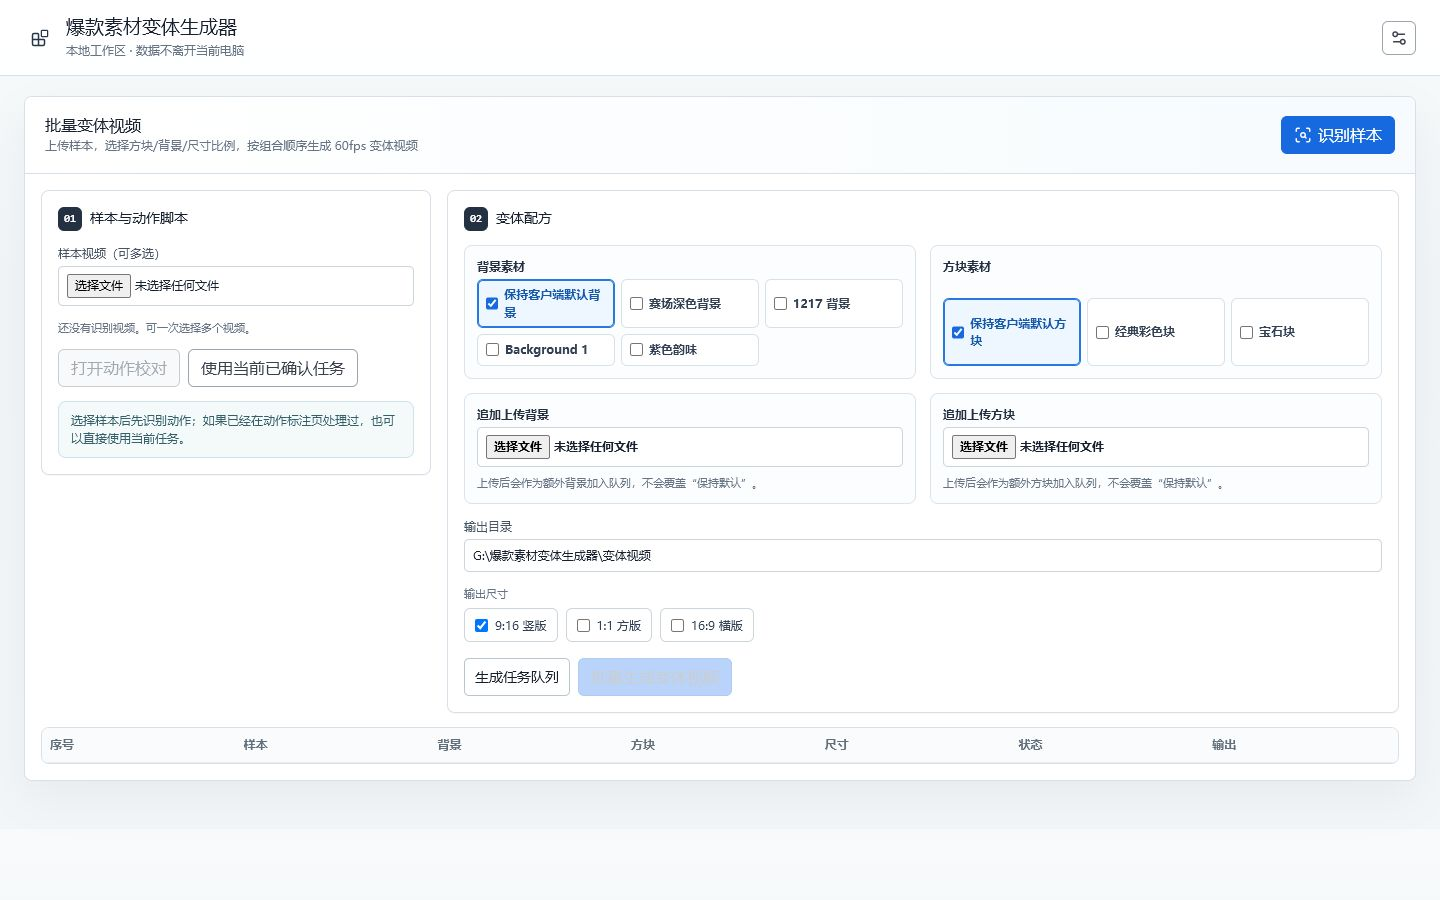
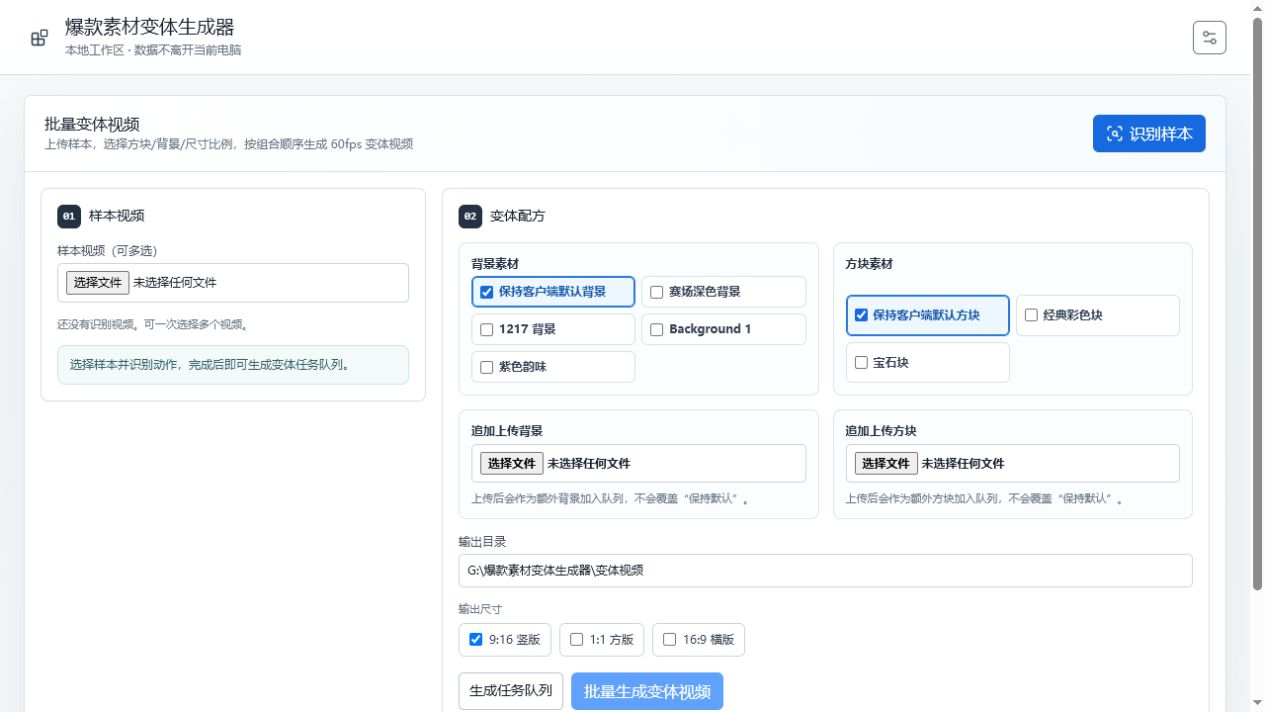
Clarify automatic generation workflow

diff --git a/docs/project-overview.html b/docs/project-overview.html
@@ -492,7 +492,7 @@
         <div class="hero-content">
           <div class="eyebrow">Local-first video automation</div>
           <h1 id="hero-title">爆款素材<br>变体生成器</h1>
-          <p class="hero-lead">从游戏录屏中识别方块、落点与消除动作，经人工复核和确定性规则校验后，更换背景、方块素材与画面比例，批量生成可复现的变体视频。</p>
+          <p class="hero-lead">从游戏录屏中自动识别方块、落点与消除动作，经确定性规则校验后，更换背景、方块素材与画面比例，直接批量生成可复现的变体视频。</p>
           <div class="hero-actions">
             <a href="../index.html"><i data-lucide="play"></i>进入生成器</a>
             <a href="#baseline"><i data-lucide="chart-no-axes-combined"></i>查看当前精度</a>
@@ -511,7 +511,7 @@
       <div class="shell">
         <div class="section-head reveal">
           <div><div class="section-label">Product workflow</div><h2>一条从样本到成片的确定性流水线</h2></div>
-          <p>识别并不是终点。项目把视频理解、动作复核、素材替换和 Unity 回放连成闭环，所有低置信结果都可以在生成前被看到、修正和验证。</p>
+          <p>面向使用者的正式链路不要求核对真值。算法自动理解视频、完成规则一致性校验并驱动 Unity 回放；真值标注属于独立的研发链路，只用于提高后续自动识别精度。</p>
         </div>
         <div class="workflow reveal">
           <article class="workflow-item">
@@ -527,10 +527,10 @@
             <p>拆解来源槽位、方块形状、棋盘落点、消除状态和稳定画面区间。</p>
           </article>
           <article class="workflow-item">
-            <div class="workflow-index">TRUTH / 03</div>
-            <div class="workflow-icon"><i data-lucide="list-checks"></i></div>
-            <h3>校对真值</h3>
-            <p>逐步核对视觉证据，规则模拟必须能够精确复现后续棋盘。</p>
+            <div class="workflow-index">VERIFY / 03</div>
+            <div class="workflow-icon"><i data-lucide="shield-check"></i></div>
+            <h3>自动校验</h3>
+            <p>用合法落点和棋盘状态复现自动排除不一致候选，不要求用户逐步确认。</p>
           </article>
           <article class="workflow-item">
             <div class="workflow-index">OUTPUT / 04</div>
@@ -541,7 +541,7 @@
         </div>
         <figure class="screen-figure reveal">
           <div class="screen-frame"><img src="assets/overview-home.png" alt="批量变体视频生成主页，包含多视频样本、背景和方块配方、输出尺寸与生成队列。"></div>
-          <figcaption class="screen-caption"><strong>当前主页：纯粹的变体生成工作流</strong><span>校准、真值与编辑器接口已收进右上角系统工具菜单</span></figcaption>
+          <figcaption class="screen-caption"><strong>当前主页：上传、识别、配方与生成</strong><span>真值标注和校准属于后台算法工具，已收进右上角系统工具菜单</span></figcaption>
         </figure>
       </div>
     </section>
@@ -631,7 +631,7 @@
           <article class="cause"><div class="cause-code">ROOT / METRIC</div><h3>检测与识别曾被混算</h3><p>漏检导致动作配对错位，形状、槽位、落点指标会一起被污染。新评测已开始拆分 action count 与 aligned 指标。</p></article>
         </div>
         <div class="architecture reveal" aria-label="系统架构流程">
-          <article class="arch-stage"><i data-lucide="monitor-up"></i><h3>浏览器工作台</h3><p>批量配方、视频标注、校准、真值进度和生成队列。</p></article>
+          <article class="arch-stage"><i data-lucide="monitor-up"></i><h3>变体生成工作台</h3><p>上传样本、自动识别、批量配方和生成队列；标注与校准作为后台工具独立存在。</p></article>
           <div class="arch-arrow"><i data-lucide="arrow-right"></i></div>
           <article class="arch-stage"><i data-lucide="scan-eye"></i><h3>本地视觉与规则层</h3><p><code>variant_bridge.py</code> 调度 <code>timeline_analyzer.py</code>，输出候选和可回放脚本。</p></article>
           <div class="arch-arrow"><i data-lucide="arrow-right"></i></div>
@@ -695,14 +695,14 @@
       <div class="shell workbench-shot">
         <div class="screen-frame reveal"><img src="assets/overview-annotation.png" alt="视频动作标注工作台的样本导入和识别入口。"></div>
         <div class="workbench-copy reveal">
-          <div class="section-label">Human in the loop</div>
-          <h2>识别不完美时，仍然可以可靠交付</h2>
-          <p>标注工作台不是算法失败后的补丁，而是产品安全边界。机器先完成高置信部分，操作者只处理真正有歧义的动作。</p>
+          <div class="section-label">Algorithm development loop</div>
+          <h2>真值核对用于调算法，不属于生成步骤</h2>
+          <p>研发人员从测试集中抽取样本，核对程序识别结果并保存真值，再用 A/B 评测判断优化是否有效。普通使用者上传视频时不需要进入这个界面。</p>
           <div class="check-list">
-            <div class="check-item"><i data-lucide="circle-check"></i><span>逐步查看放置前、拖拽中、放置后与消除后证据帧</span></div>
-            <div class="check-item"><i data-lucide="circle-check"></i><span>分别修正来源槽位、方块形状、棋盘落点和消除状态</span></div>
-            <div class="check-item"><i data-lucide="circle-check"></i><span>所有动作通过规则模拟后才保存为可回放真值</span></div>
-            <div class="check-item"><i data-lucide="circle-check"></i><span>下一阶段加入落子前三槽真值，直接评测托盘读取器</span></div>
+            <div class="check-item"><i data-lucide="circle-check"></i><span>建立可信测试集，量化来源槽位、形状、落点和消除错误</span></div>
+            <div class="check-item"><i data-lucide="circle-check"></i><span>定位算法为什么看错，而不是让每位用户替算法纠错</span></div>
+            <div class="check-item"><i data-lucide="circle-check"></i><span>每个实验与固定真值比较，防止局部优化造成整体回归</span></div>
+            <div class="check-item"><i data-lucide="circle-check"></i><span>最终目标是提高自动识别率，让视频能够直接生成变体</span></div>
           </div>
         </div>
       </div>
@@ -731,7 +731,7 @@
 
   <footer>
     <div class="shell footer-inner">
-      <div><strong>爆款素材变体生成器</strong><br><span>识别、校对、回放、变体生成，一个本地闭环。</span></div>
+      <div><strong>爆款素材变体生成器</strong><br><span>自动识别、规则校验、回放与变体生成，一个本地闭环。</span></div>
       <div class="footer-meta">STATUS SNAPSHOT · 2026-07-24<br><a href="README.md">查看文档索引</a></div>
     </div>
   </footer>

diff --git a/index.html b/index.html
@@ -216,14 +216,14 @@
         <div class="body">
           <div class="batch-layout">
             <div class="batch-card">
-              <h3 data-step="01">样本与动作脚本</h3>
+              <h3 data-step="01">样本视频</h3>
               <label>样本视频（可多选） <input id="batchSampleVideo" type="file" accept="video/*" multiple></label>
               <div class="batch-video-list" id="batchVideoList"><div class="hint">还没有识别视频。可一次选择多个视频。</div></div>
-              <div class="toolrow">
+              <div class="toolrow" hidden>
                 <button type="button" id="batchOpenReviewBtn" disabled>打开动作校对</button>
                 <button type="button" id="batchUseCurrentJobBtn">使用当前已确认任务</button>
               </div>
-              <div class="status batch-status-note" id="batchAnalyzeStatus">选择样本后先识别动作；如果已经在动作标注页处理过，也可以直接使用当前任务。</div>
+              <div class="status batch-status-note" id="batchAnalyzeStatus">选择样本并识别动作，完成后即可生成变体任务队列。</div>
             </div>
             <div class="batch-card">
               <h3 data-step="02">变体配方</h3>
